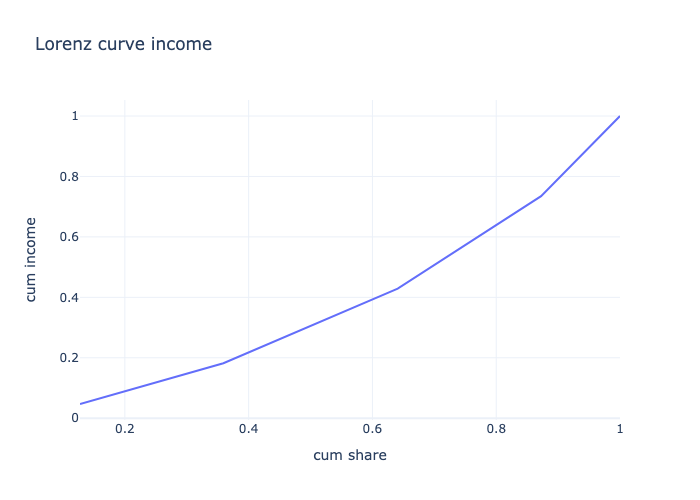
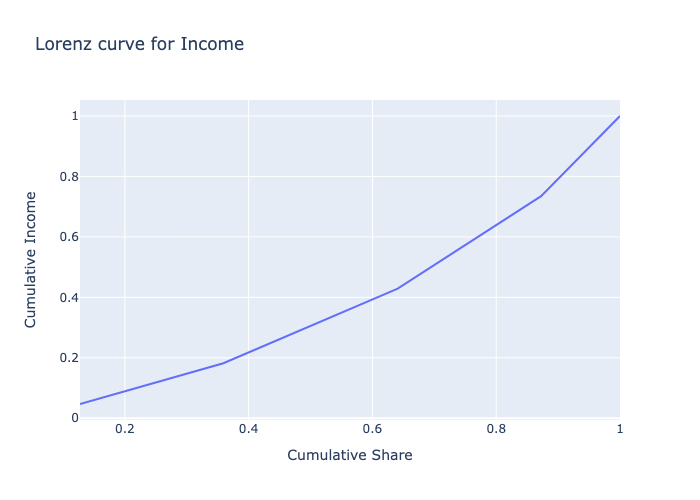
begin solving part 2

diff --git a/ps6/main_aiyagari.py b/ps6/main_aiyagari.py
@@ -136,69 +136,68 @@ def part1_output():
 	np.percentile(wealth_distribution, 99.9)
 
 	cum_wealth = np.cumsum(wealth_distribution)
-	df = pd.DataFrame(cum_wealth, columns = ['cum wealth'])
-	df["cum wealth"] =  df["cum wealth"] / cum_wealth[-1]
+	df = pd.DataFrame(cum_wealth, columns = ['Cumulative Wealth'])
+	df["Cumulative Wealth"] =  df["Cumulative Wealth"] / cum_wealth[-1]
 	df["wealth_level"] = asset_grid
-	df["cum share"] = np.cumsum(np.sum(distribution, axis = 1))
-	fig = px.line(df, x="cum share", y="cum wealth", title='Lorenz curve wealth')
+	df["Cumulative Share"] = np.cumsum(np.sum(distribution, axis = 1))
+	fig = px.line(df, x="Cumulative Share", y="Cumulative Wealth", title='Lorenz Curve for Wealth')
 	fig.write_image(f'figures/lorenz_wealth.png')
 
 
 	cum_income = np.cumsum(income_distribution)
-	df = pd.DataFrame(cum_income, columns = ['cum income'])
-	df["cum income"] =  df["cum income"] / cum_income[-1]
+	df = pd.DataFrame(cum_income, columns = ['Cumulative Income'])
+	df["Cumulative Income"] =  df["Cumulative Income"] / cum_income[-1]
 	df["income_level"] = income_states
-	df["cum share"] = np.cumsum(np.sum(distribution, axis = 0))
-	fig = px.line(df, x="cum share", y="cum income", title='Lorenz curve income')
 	fig.write_image(f'figures/lorenz_income.png')
 	return
 
 part1_output()
 #### PART 2
 def market_clearing_part2(r_in, max_assets):
+min_assets = -1
+max_assets = 500
+asset_grid = np.logspace(
+	start = 0, 
+	stop = np.log10(max_assets+2), 
+	num = 1501) -2
 
-	min_assets = -1
-	asset_grid = np.logspace(
-		start = 0, 
-		stop = np.log10(max_assets+2), 
-		num = 1500) -2
+chi = 0.035/(max_assets - 50)
+r_hetero = chi * np.maximum(np.zeros(asset_grid.shape), asset_grid)
 
+r_idio, P_r = tauchenhussey(5, 0,0,0.15, floden_basesigma(0.15, 0))
+r_idio = np.exp(r_idio) - 1
 
-	chi = 0.035/(max_assets - 50)
-	r_hetero = chi * np.maximum(np.zeros(asset_grid.shape), asset_grid)
+alpha = 0.3
+sigma = np.sqrt(0.04)
+rho = 0.94
+mu = 0
+inc_size = 5
+baseSigma = floden_basesigma(sigma, rho)
+log_income_states, transition_matrix = tauchenhussey(inc_size, mu,rho,sigma, baseSigma)
+income_states = np.exp(log_income_states[0,:])
+steady_distribution = np.linalg.matrix_power(transition_matrix, 1000)
+mean_income =  income_states @ steady_distribution[0,:]
+income_states = income_states / mean_income # Checked with Tom
 
-	r_idio, r_P = tauchenhussey(5, 0,0,0.15, floden_basesigma(0.15, 0))
+delta = 0.1
+r_in = 0
+K_firm = (alpha/(r_in + delta))**(1/(1-alpha))
+wage = (1 - alpha) * K_firm ** alpha
+income_states = wage * income_states
 
-	alpha = 0.3
-	sigma = np.sqrt(0.04)
-	rho = 0.94
-	mu = 0
-	inc_size = 5
-	baseSigma = floden_basesigma(sigma, rho)
-	log_income_states, transition_matrix = tauchenhussey(inc_size, mu,rho,sigma, baseSigma)
-	income_states = np.exp(log_income_states[0,:])
-	steady_distribution = np.linalg.matrix_power(transition_matrix, 1000)
-	mean_income =  income_states @ steady_distribution[0,:]
-	income_states = income_states / mean_income # Checked with Tom
+params = {
+"disc_fact": 0.96,
+"risk_aver": 1.5,
+"income_states": income_states
+}
+tol = 1e-3
 
-	P = np.kron(transition_matrix, r_P)
-
-	delta = 0.1
-	K_firm = (alpha/(r_in + delta))**(1/(1-alpha))
-	wage = (1 - alpha) * K_firm ** alpha
-	income_states = wage * income_states
-	
-	params = {
-	"disc_fact": 0.96,
-	"risk_aver": 1.5,
-	"income_states": income_states
-	}
-
-	r_det = r_in + r_hetero
-	r_d, r_i = np.meshgrid(r_det, r_idio, indexing = "ij", sparse = True)
-	r_tot = r_d + r_i # 1500 by 5
-	
-	policy = egm(transition_matrix, asset_grid, r_tot, params, tol = 1e-6)
+r = r_in + np.expand_dims(r_hetero, axis = 1) + r_idio
+pol_large = egm_coh(income_states, asset_grid, transition_matrix, P_r, r, params, tol)
+pol_large_exp = pol_large * np.tile(P_r[0], income_states.shape[0])
+# TODO: note, mapping is from exog coh to endog savings, want to force savings to some grid
+policy = np.sum(np.reshape(pol_large_exp, (pol_large.shape[0], income_states.shape[0], -1)), axis = 2)
+# TODO: continue down here tomorrow:
 	policy_exog_grid = griddata(asset_grid, asset_grid, policy, method='nearest')
 
 	ergodic_distribution  = EigenLambda(transition_matrix, asset_grid, income_states, policy_exog_grid)
@@ -210,14 +209,88 @@ def market_clearing_part2(r_in, max_assets):
 	return(diff, ergodic_distribution, K_hh, policy_exog_grid)
 
 
-# Want policy from all endog coh x income states to exog savings
-# coh = income_states + asset_grid * (1 + r_tot)
-# mu_cons_fut = (coh - policy_guess)**(-params["risk_aver"])
-# Ecf = np.matmul(mu_cons_fut, P.T)
-#	cons_today = (params["disc_fact"] * (1+rate) * Ecf)**(-1/params["risk_aver"])
-# endog_coh = cons_today + action_states
+def find_endog_coh(exog_coh, income_states, policy, P, P_r, params):
+	''' Returns a mapping from asset tomorrow x income state (cash-on-hand today) to consumption today
 
-#1/(1+rate) * (cons_today + action_states - income_states) 
+	Parameters
+	----------
+	income_states : numpy array (vector) of persistent income states
+	asset_grid : numpy array of possible asset states
+	R : numpy array of returns varying with asset level and some idiosyncratic shocks to returns. asset dim x number of idiosyncratic states
+
+	Returns
+	-------
+	endog_coh
+	  The endogenously found cash on hand array.
+	'''
+
+	# Find mapping from coh to savings
+	# expand to a mapping to coh tomorrow
+	# Reduce dimensions again 
+
+		# income 1, all assets | income 2, all assets, etc.
+	cons_fut = exog_coh - policy
+	mu_cons_fut = cons_fut**(-params["risk_aver"])
+	PP = np.kron(P, P_r)
+	Ecf = np.matmul(mu_cons_fut, PP.T)
+	# Ecf = Ecf * np.tile(P_r, 5)[0]
+	cons_today = (params["disc_fact"] * Ecf)**(-1/params["risk_aver"])
+	
+	savings = exog_coh - cons_today
+	# Notice depedence on next period interest rate!!!
+	return(savings) # 1501 x 25
+
+def invert_function(exog_grid, x_grid, outcome):
+	''' Reverts a mapping from x_grid to endog_outcome to endog outcome to exog_grid.
+	This is done using interpolation.
+	'''
+	policy = np.empty(outcome.shape)
+	
+	for s in range(outcome.shape[1]):
+		policy[:,s] = np.interp(x = exog_grid[:,s], xp = outcome[:,s], fp = x_grid[:,s], left = x_grid[0,s], right = x_grid[-1,s])
+	return(policy)
+
+def egm_coh(income_states, asset_grid, P, P_r, returns_matrix, params, tol):
+	''' Returns a mapping from endogenous cash on hand X income state to assets tomorrow.
+
+	Parameters
+	----------
+	income_states : numpy array (vector) of persistent income states
+	asset_grid : numpy array of possible asset states
+	R : numpy array of returns varying with asset level and some idiosyncratic shocks to returns. asset dim x number of idiosyncratic states
+
+	Returns
+	-------
+	policy
+	  A mapping from cash on hand x income states to assets tomorrow
+	'''
+	
+	
+	asset_income_grid = np.logspace(
+		start = 0, 
+		stop = np.log10(np.max(asset_grid) + 1 - (-1)),
+		num = 1501) - 1 + (-1)
+
+	#asset_income_grid = np.tile(asset_income_grid.T, 5).reshape(5, 1501).T
+	asset_incomes = (1+returns_matrix) *  np.expand_dims(asset_income_grid,1)
+	asset_incomes_rep = np.tile(asset_incomes, income_states.shape[0])
+	# All possible cash-on-hand states:
+	exog_coh = asset_incomes_rep + np.repeat(income_states, asset_incomes.shape[1])
+	# Policy contains all possible future values, i.e. 1501 by 25
+	policy_guess = np.copy(exog_coh) - 0.01
+
+	diff = tol + 1
+	while diff > tol:
+		diff = 0
+		savings = find_endog_coh(exog_coh, income_states, policy_guess, P, P_r,params) # given that we know the shock, what was the chocie of coh?
+	#	policy_guess_upd = invert_function(exog_grid = exog_coh, x_grid = exog_coh, outcome = savings)
+		policy_guess_upd = savings	
+		diff = max(np.max(np.abs(policy_guess_upd - policy_guess)), diff)
+		policy_guess = np.copy(policy_guess_upd)
+
+	policy = policy_guess
+	return(policy)
+
 
 
 
